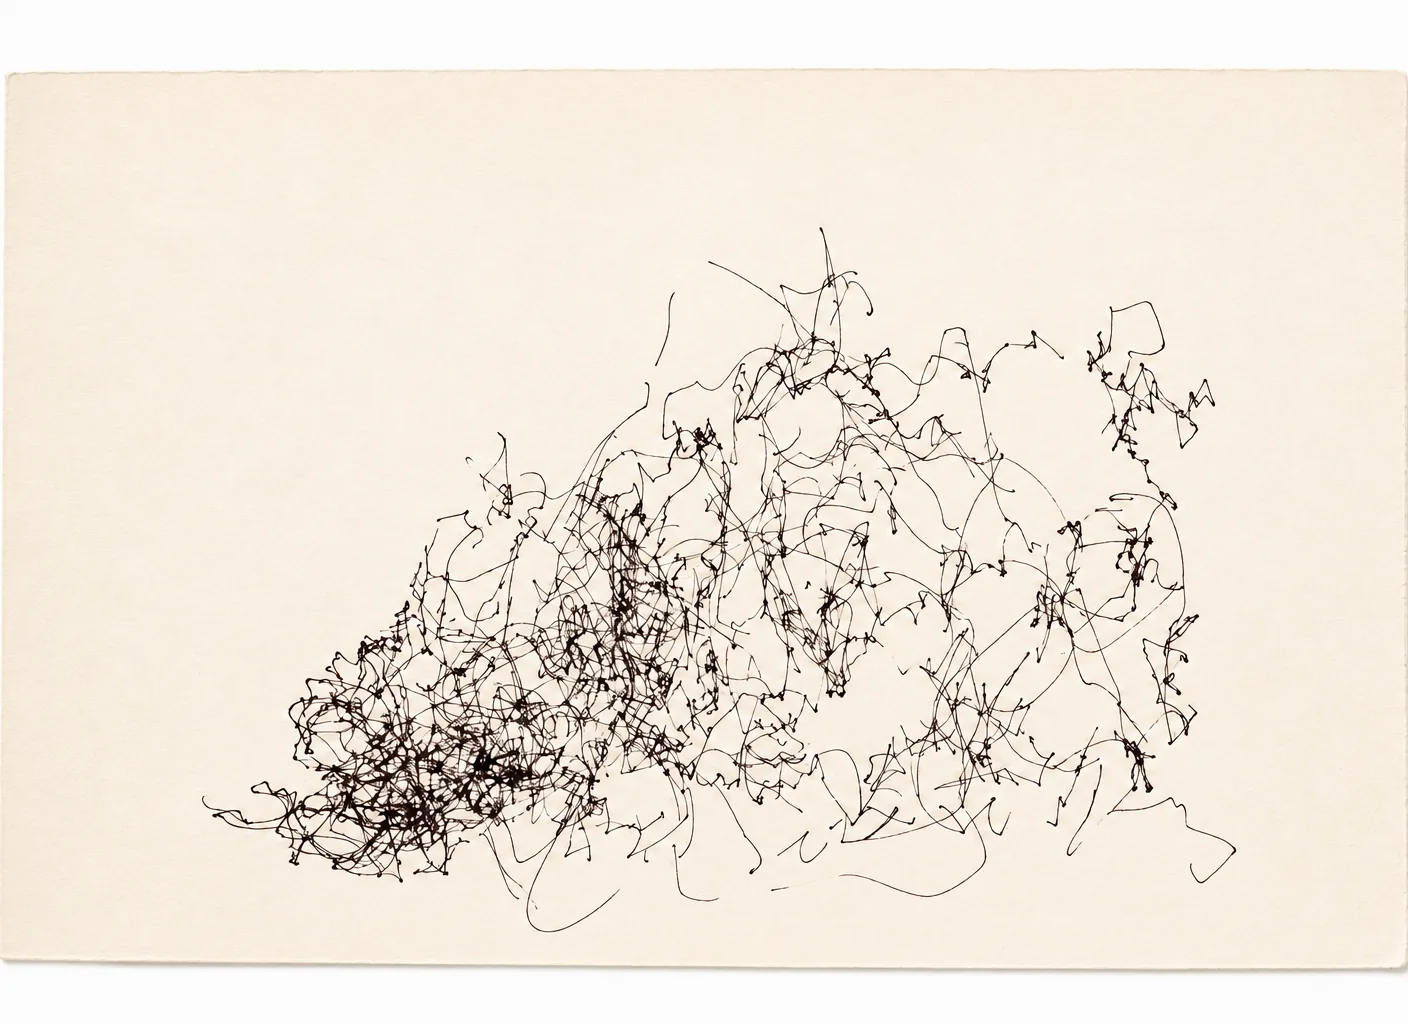
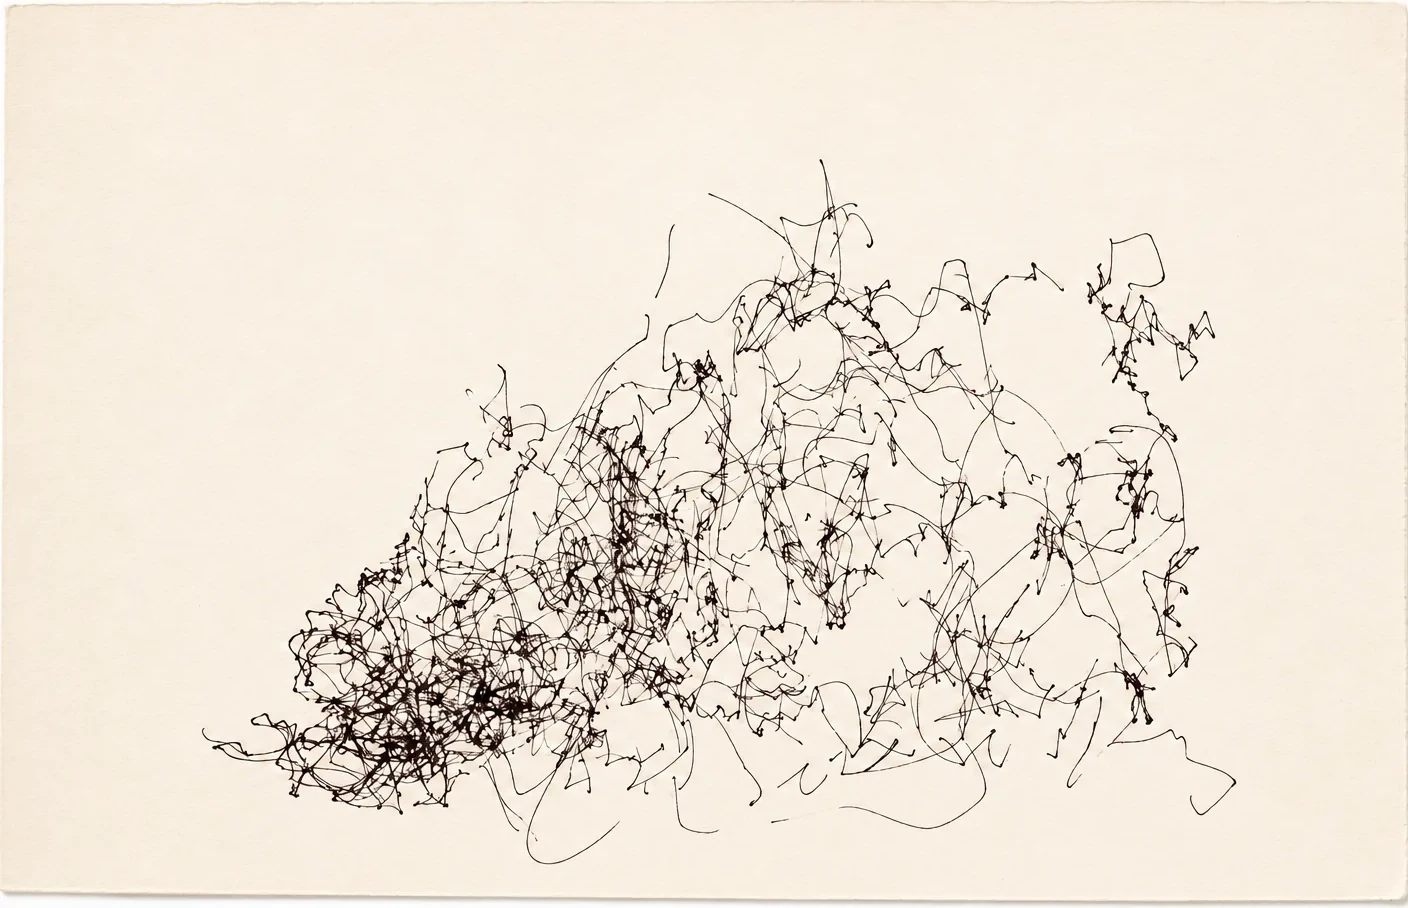
Alinha carrossel e ajusta menu da capa

Changed region(s): [[0.0, 0.2159, 1.0, 1.0], [0.0, 0.0, 1.0, 0.0925], [0.8438, 0.8326, 0.875, 0.8634]]

diff --git a/styles.css b/styles.css
@@ -240,6 +240,7 @@ button {
 @media (min-width: 1025px) {
   body.rota-inicial .menu-lateral {
     padding-top: var(--recuo-hero-topo);
+    padding-left: 44px;
   }
 
   body.rota-inicial .marca-menu-lateral {
@@ -248,6 +249,10 @@ button {
 
   body.rota-inicial .imagem-hero {
     width: min(54vw, 860px);
+  }
+
+  body.rota-inicial .imagem-hero img {
+    object-position: center top;
   }
 }
 

diff --git a/index.html b/index.html
@@ -14,7 +14,7 @@
       rel="stylesheet"
       href="https://fonts.googleapis.com/css2?family=Inter:wght@300;400;500&family=Inter+Tight:wght@200;300;400&titulo-destaque=swap"
     />
-    <link rel="stylesheet" href="styles.css?v=20260908-1" />
+    <link rel="stylesheet" href="styles.css?v=20260908-2" />
   </head>
   <body>
     <aside class="menu-lateral">
